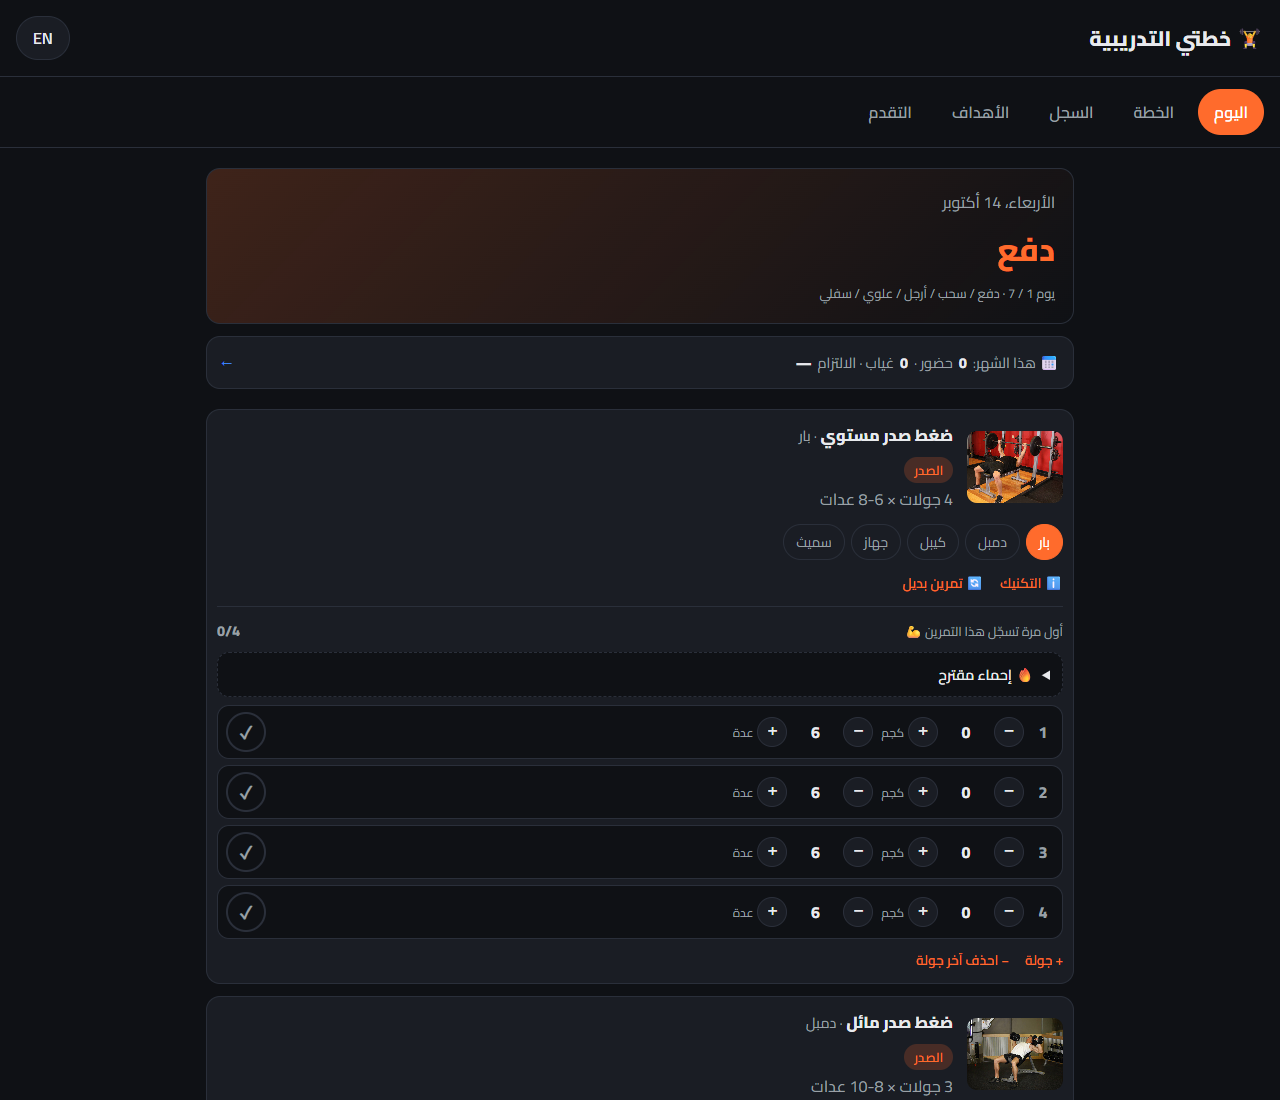
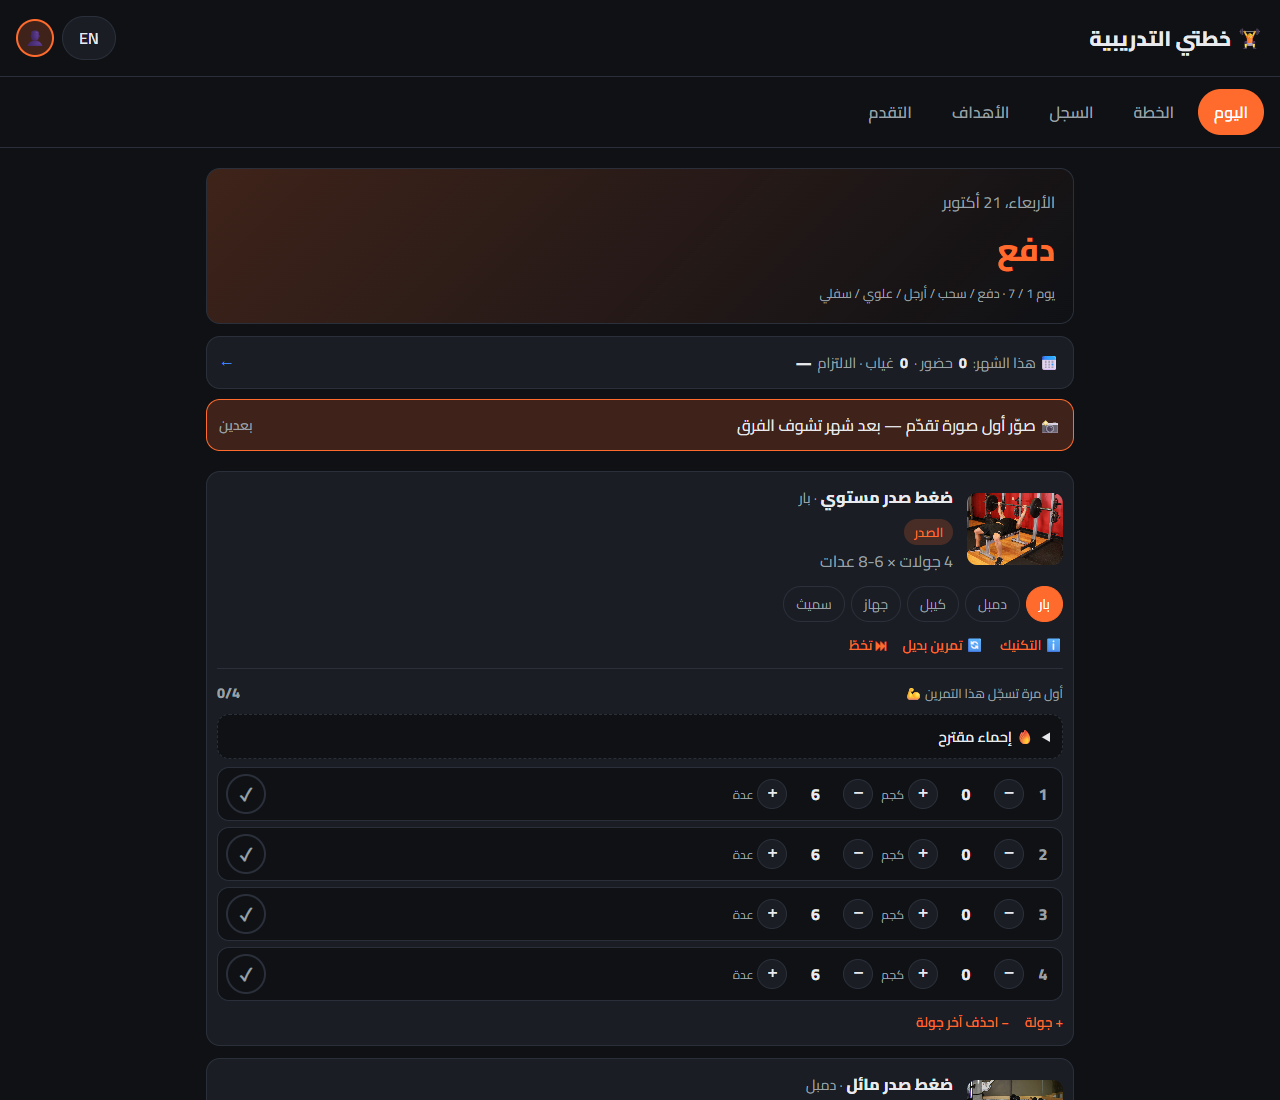
README: document finish/skip/Me page/photos and the security fixes; new screenshot

diff --git a/README.md b/README.md
@@ -10,7 +10,9 @@ A bilingual (Arabic / English) workout planner and tracker that runs entirely in
 
 - **Training plans** — Push / Pull / Legs / Upper / Lower (my own split), Full Body 3×, and Bro Split, each as a repeating 7-day cycle.
 - **Plan editor** — rename days, add / remove / reorder exercises, change sets, reps and equipment, or turn a day into a rest day. Editing a built-in plan makes your own copy, so the original is always one tap away.
-- **Today view** — works out which day of the cycle today is from a start date; a "missed today, push one day" button shifts the schedule.
+- **Today view** — works out which day of the cycle today is from a start date; a "missed today, push one day" button shifts the schedule. Trained yesterday but logged it today? Tap the next day twice: the workout moves to yesterday's date and the schedule shifts.
+- **Finish workout** — one button under today's exercises: drops sets you didn't tick, stops the rest timer and turns into a one-line summary (sets, volume, new records, skipped) with undo. Exercises you didn't log fold down to their title.
+- **Skip an exercise** — for today only, with an optional reason (no time / pain / machine busy); shown in the summary and history. Or remove it from your plan for good.
 - **Exercise choices** — 31 movements with 85 equipment variants (barbell, dumbbell, cable, machine, Smith…). Change the equipment or swap to another exercise for the same muscle; choices are remembered.
 - **Technique window** — a 2-frame animation of the movement, a front/back body map (polygon body model) that highlights the target muscle (strong) and helper muscles (light), short technique tips, and an embedded YouTube tutorial for every exercise in my plan (search button for the rest).
 - **Set logging** — weight and reps with − / + buttons, ✓ per set, auto-filled from the last time you did the same exercise with the same equipment.
@@ -20,16 +22,17 @@ A bilingual (Arabic / English) workout planner and tracker that runs entirely in
 - **Personal records** — a gold banner when a ticked set beats your heaviest weight, your estimated one-rep max, or your reps at that weight; the technique window lists your records per exercise.
 - **History** — every workout by date, editable; two-tap delete.
 - **Goals** — lift a target weight, reach a body weight, or train N times a week. Progress is computed from the log, measured from the starting point; input is checked against realistic ranges.
-- **Profile advice** — from age, height, sex and weight: BMI (with its limits explained), estimated daily calories, protein and water, a tip for your age, and whether a body-weight goal's deadline is a safe pace.
+- **Me page** — your name, a greeting and a profile photo (in the top corner). Holds your profile and advice: BMI (with its limits explained), estimated daily calories, protein and water, a tip for your age, and whether a body-weight goal's deadline is a safe pace.
+- **Progress photos** — add a photo (camera or gallery), saved with the date and your weight; compare any two side by side with the time and weight change between them; a monthly reminder in the Today tab; a separate backup file for the photos. Photos never leave the device.
 - **Progress** — summary tiles, weekly sets per muscle on the body map (low / good / high), top-weight-per-workout chart with estimated one-rep max (Epley), a 6-month attendance heatmap (attended / missed / off days) with a monthly table, and a body-weight chart.
-- **Your data** — save a backup file, restore it on another device, or download your log as a CSV table for Excel / pandas.
+- **Your data** — save a backup file, restore it on another device, or download your log as a CSV table for Excel / pandas. Restoring checks every field first.
 - **Installable app (PWA)** — add it to your home screen; it opens offline and keeps your plan's exercise images.
 
 ## Tech stack
 
 - HTML, CSS, vanilla JavaScript (no framework, no build step)
 - [Chart.js 4.4.1](https://www.chartjs.org/) for charts
-- `localStorage` for all data
+- `localStorage` for data, `IndexedDB` for progress photos
 - Service Worker + Web App Manifest for offline / install
 - Python (Pillow) to draw the app icons; a small Python script to build the exercise list from the open dataset
 
@@ -47,12 +50,26 @@ A bilingual (Arabic / English) workout planner and tracker that runs entirely in
 - **Records** are computed from the log on each ✓; the first time you ever do an exercise there's nothing to beat, so no banner.
 - **Weekly sets per muscle**: each finished set counts 1 for the exercise's main muscle and 0.5 for each helper muscle; 10–20 sets a week is shown as a general guideline.
 - **Plan editing is copy-on-write**: the built-in templates are never changed; your edited copy (with your swaps baked in) lives in `localStorage`.
+- **Skipped exercises are stored apart from the log** (`skips` by date), so a day where you only skipped things never counts as a workout day in attendance or goals.
+- **Photos** are shrunk in the browser before saving (canvas → JPEG, longest side 1080 px; the profile photo is a 160 px square), so a 4 MB phone photo becomes ~150 KB. They go in IndexedDB because `localStorage` holds only ~5 MB of text. On-screen photos use temporary `blob:` links that are freed on every redraw.
+
+## Security
+
+A technical review of the code found real problems, which are now fixed:
+
+- **XSS** — text you type (plan / day names) or that comes from an imported file is escaped (`esc()`) before it goes into the page.
+- **Backup import** — every field is checked (types, realistic ranges, exercise ids that exist, no `__proto__` keys) before anything is saved; photo backups are checked the same way.
+- **Broken or full storage** — a corrupted value no longer blanks the page: it's kept aside as `broken_<key>` and the app starts that part fresh. If the browser refuses to save, a red bar says so.
+- **Security headers** (`vercel.json`) — a Content-Security-Policy that only allows scripts from the site and cdnjs, plus `nosniff`, no framing, and camera / microphone / location turned off.
+- **Subresource Integrity** on Chart.js — the browser refuses the file if the CDN copy ever changes.
+- **Offline fallback** — only page visits fall back to the start page; a missing script fails as a normal error.
 
 ## Project structure
 
 ```
 gym-planner/
-├── index.html              # page skeleton: 5 tabs + exercise dialog
+├── index.html              # page skeleton: 5 tabs + Me page + exercise dialog
+├── vercel.json             # security headers (CSP etc.)
 ├── manifest.webmanifest    # app name, icons, colors (PWA)
 ├── sw.js                   # service worker (offline cache)
 ├── css/style.css           # dark theme, RTL/LTR layout
@@ -65,7 +82,7 @@ gym-planner/
 │   ├── storage.js          # localStorage with a "gp_" prefix (+ moves old keys)
 │   ├── i18n.js             # Arabic / English texts + language switch
 │   ├── bodymap.js          # SVG muscle map
-│   ├── log.js              # set logging + history
+│   ├── log.js              # set logging, skipped exercises, history
 │   ├── goals.js            # goals + body weight
 │   ├── profile.js          # profile + personal advice
 │   ├── charts.js           # Progress tab (tiles + Chart.js)
@@ -77,6 +94,9 @@ gym-planner/
 │   ├── records.js          # personal records
 │   ├── volume.js           # weekly sets per muscle
 │   ├── editor.js           # plan editor (custom plans)
+│   ├── finish.js           # finish-workout button + summary
+│   ├── me.js               # Me page: name, greeting, profile photo
+│   ├── photos.js           # progress photos (IndexedDB), reminder, photo backup
 │   ├── app.js              # tabs, plan, today, exercise dialog
 │   └── pwa.js              # service worker registration + install button
 ├── docs/feature-ideas.md   # competitor research and feature backlog
@@ -95,7 +115,7 @@ Then open http://localhost:5501. A local server is needed (not double-clicking `
 
 ## Limitations (honest notes)
 
-- **Data stays on one device/browser.** There's no account or sync; use "Save a copy of my data" to move it.
+- **Data stays on one device/browser.** There's no account or sync; use "Save a copy of my data" (and "Save my photos") to move it. Clearing the browser's data deletes everything, photos included.
 - **Internet is needed the first time** (exercise images, chart library, fonts) and always for YouTube videos.
 - **Off days in the attendance map come from the current plan.** If you switch plans, past months are shown against the new plan.
 - **Sets, reps and tips are general guidance** I wrote for my own training, not advice from a coach. Calories, BMI and protein use standard formulas and are estimates, not medical advice.
@@ -103,7 +123,7 @@ Then open http://localhost:5501. A local server is needed (not double-clicking `
 - The rest timer can only vibrate / beep while the screen is on — browsers pause web pages on a locked phone.
 - No plate calculator for Smith machines, because their bar weight differs from gym to gym.
 - The body model has one "upper back" shape, so lats and middle back share it (it shows the larger value).
-- No automated tests — features were checked manually in the browser (including offline with the server stopped).
+- No automated tests yet — features were checked manually in the browser, including offline with the server stopped and with the security headers served locally. Tests are the next step.
 
 ## Credits
 
